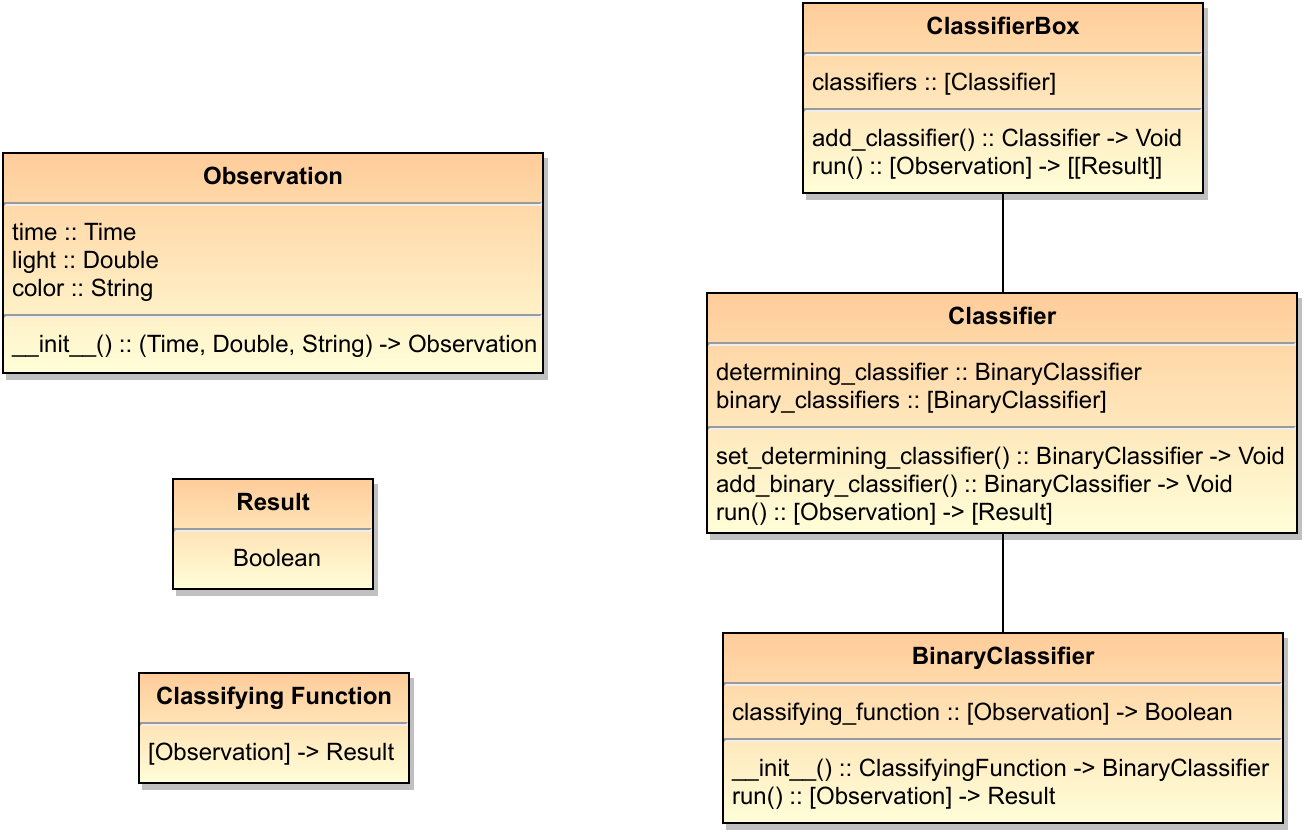
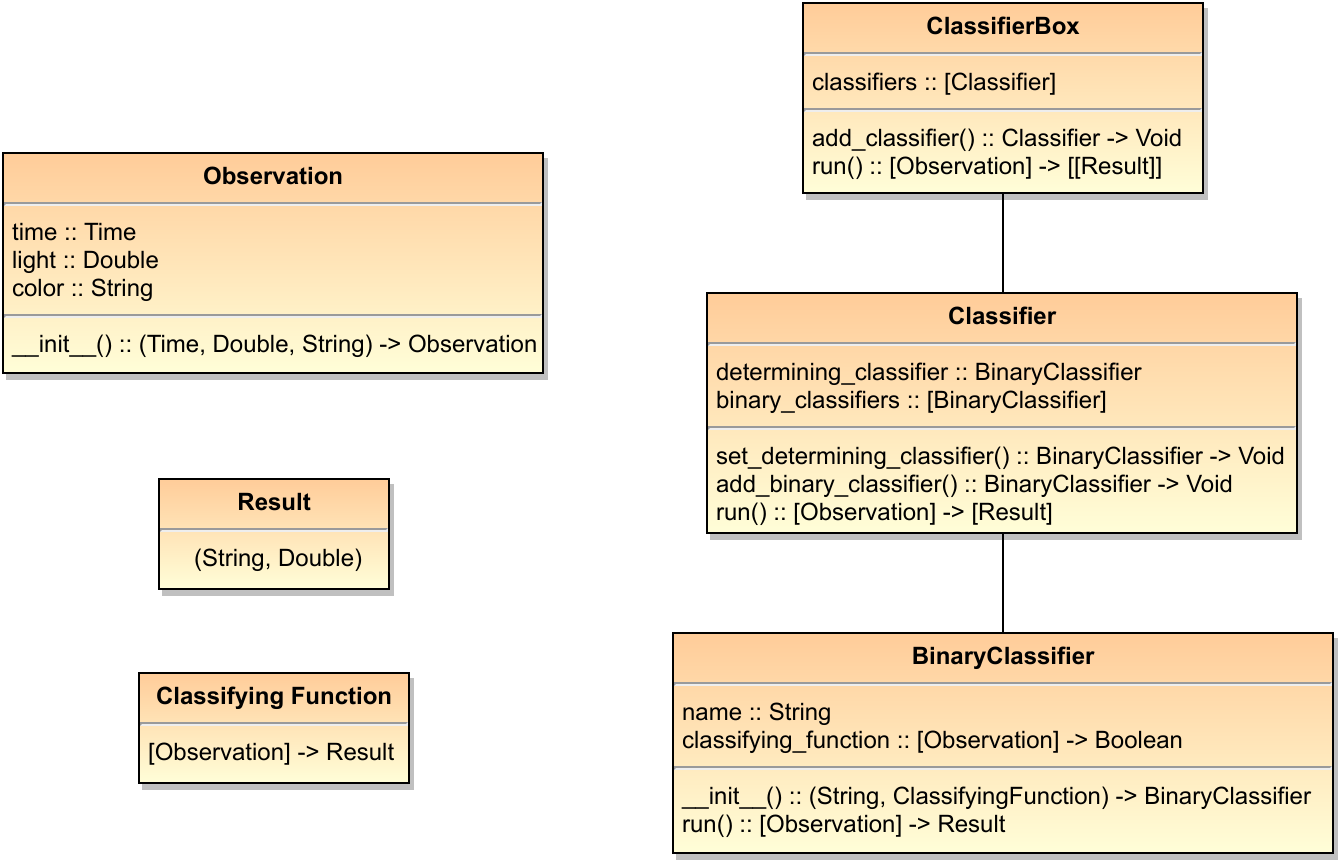
Add names to BinaryClassifiers
Change BinaryClassifiers to have a name/id which would uniquely identity them. Also change the results to include the classifier name along with the probability.

Update the unit tests to take these changes into account. Also update the UML diagram.

Closes #8

diff --git a/tests/test_classifier.py b/tests/test_classifier.py
@@ -8,7 +8,7 @@ class TestClassifier(unittest.TestCase):
 
     def test_add_binary_classifier(self):
         def function(_): return 0.5
-        test_binary_classifier = binary_classifier.BinaryClassifier(function)
+        test_binary_classifier = binary_classifier.BinaryClassifier("001", function)
         test_classifier = classifier.Classifier()
 
         test_classifier.add_binary_classifier(test_binary_classifier)
@@ -24,7 +24,7 @@ class TestClassifier(unittest.TestCase):
 
     def test_set_determining_classifier(self):
         def function(_): return 0.5
-        test_binary_classifier = binary_classifier.BinaryClassifier(function)
+        test_binary_classifier = binary_classifier.BinaryClassifier("001", function)
         test_classifier = classifier.Classifier()
 
         with self.assertRaises(NotImplementedError) as context:
@@ -34,19 +34,21 @@ class TestClassifier(unittest.TestCase):
 
     def test_run(self):
         def function(_): return 0.7
-        test_binary_classifier = binary_classifier.BinaryClassifier(function)
+        test_binary_classifier = binary_classifier.BinaryClassifier("001", function)
         test_classifier = classifier.Classifier()
 
         test_classifier.add_binary_classifier(test_binary_classifier)
 
         observations = []
-        self.assertEquals([0.7], test_classifier.run(observations))
+        results = [("001", 0.7)]
+        self.assertEquals(results, test_classifier.run(observations))
 
         # Test multiple BinaryClassifiers
         def function2(_): return 0.5
-        test_binary_classifier2 = binary_classifier.BinaryClassifier(function2)
+        test_binary_classifier2 = binary_classifier.BinaryClassifier("002", function2)
 
         test_classifier.add_binary_classifier(test_binary_classifier2)
 
-        self.assertEquals([0.7, 0.5], test_classifier.run(observations))
+        results2 = [("001", 0.7), ("002", 0.5)]
+        self.assertEquals(results2, test_classifier.run(observations))
 

diff --git a/tests/test_binary_classifier.py b/tests/test_binary_classifier.py
@@ -7,14 +7,23 @@ class TestBinaryClassifier(unittest.TestCase):
 
     def test_run(self):
         def function(_): return 0.5
-        test_binary_classifier = binary_classifier.BinaryClassifier(function)
+        test_binary_classifier = binary_classifier.BinaryClassifier("001", function)
 
         observations = []
-        self.assertEquals(0.5, test_binary_classifier.run(observations))
+        results = ("001", 0.5)
+        self.assertEquals(results, test_binary_classifier.run(observations))
 
         # Test creating multiple BinaryClassifiers
         def function2(_): return 0.7
-        test_binary_classifier2 = binary_classifier.BinaryClassifier(function2)
+        test_binary_classifier2 = binary_classifier.BinaryClassifier("002", function2)
 
-        self.assertEquals(0.7, test_binary_classifier2.run(observations))
+        results2 = ("002", 0.7)
+        self.assertEquals(results2, test_binary_classifier2.run(observations))
 
+    def test_constructor(self):
+        def function(_): return 0.5
+        name = "001"
+        test_binary_classifier = binary_classifier.BinaryClassifier(name, function)
+
+        self.assertEquals(name, test_binary_classifier.name)
+        self.assertEquals(function, test_binary_classifier.classifying_function)

diff --git a/lsstbroker/binary_classifier.py b/lsstbroker/binary_classifier.py
@@ -3,17 +3,19 @@ class BinaryClassifier(object):
     Represents a Binary Classification function which takes in a list of Observations and returns a probability value.
 
     >>> def function(x): return 0.5
-    >>> bc = BinaryClassifier(function)
+    >>> bc = BinaryClassifier("001", function)
     >>> bc.run([])
-    0.5
+    ('001', 0.5)
     """
 
     classifying_function = None
+    name = None
 
-    def __init__(self, classifying_function):
+    def __init__(self, name, classifying_function):
         """
         Constructor for the classification
         """
+        self.name = name
         self.classifying_function = classifying_function
 
     def run(self, observations):
@@ -21,4 +23,4 @@ class BinaryClassifier(object):
         Method to be called to run the observations data that was
         aquired from the transient observation class
         """
-        return self.classifying_function(observations)
+        return self.name, self.classifying_function(observations)
